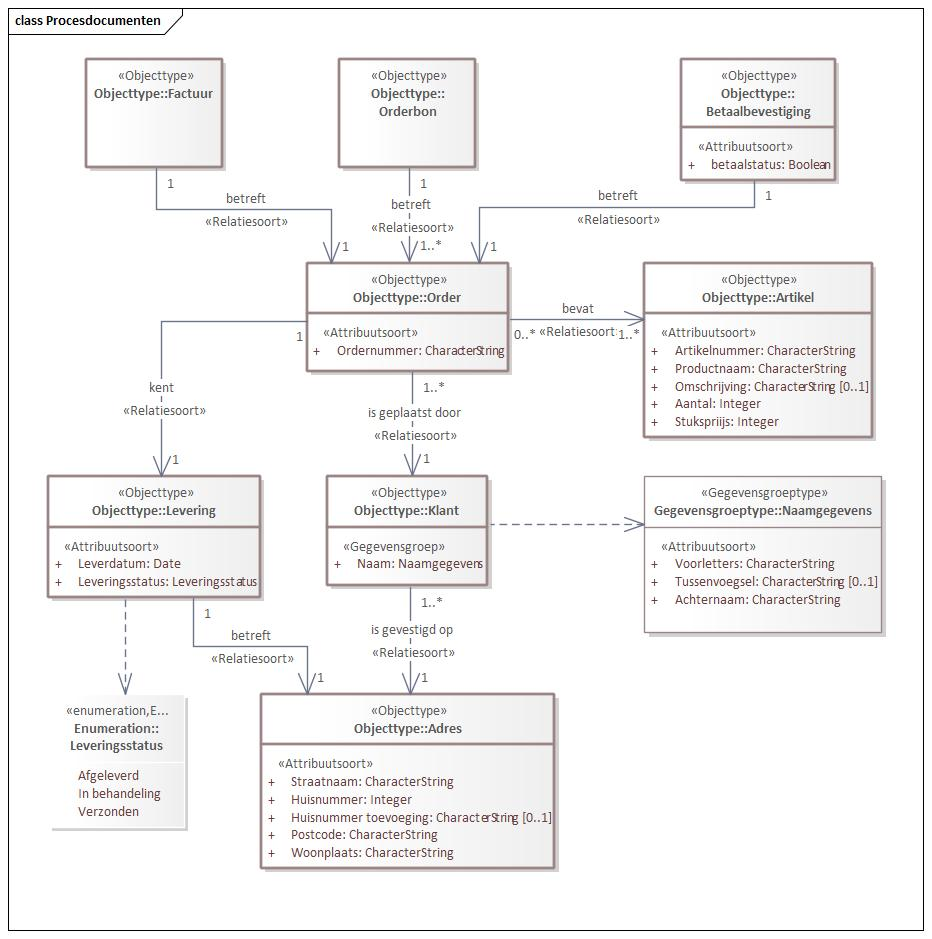
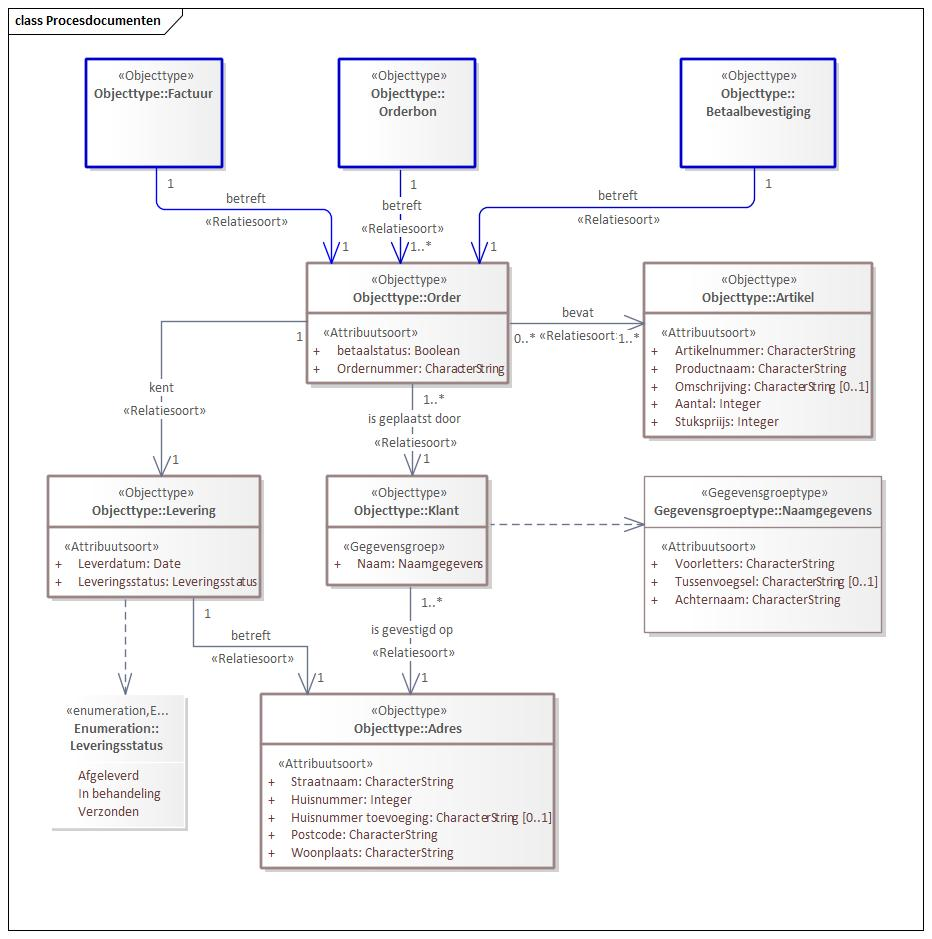
Aanpassingen t.b.v. oefening 5.3.3.

diff --git a/content/leerlijnen/05-xml-technologieen/oefening5-3-3.md b/content/leerlijnen/05-xml-technologieen/oefening5-3-3.md
@@ -10,19 +10,28 @@ oefendoel: "Oefen het beperken van het waardetype van een element."
 ## Oefening 5.3.3: Definiëren van complexere structuren
 
 In deze oefening gaan de elementen `<orderbon>`, `<factuur>` en `<betaalbevestiging>` flink op de schop. De elementen `<voorletters>`, `<postcode>` en `<ordernummer>` zullen onderdeel gaan uitmaken van de nieuwe structuur.
-Hieronder zie je het informatiemodel dat asl basis dient voor deze nieuwe structuur.
+Hieronder zie je het informatiemodel dat als basis dient voor deze nieuwe structuur.
 
 <img width="932" alt="IM Procesdocumenten" src="/Leerlijnen-KCA/bestanden/oefeningen-5-3/Procesdocumenten.jpg" />
 
+Je ziet dat in deze grafische weergave van het model de objecttypes 'Factuur', 'Orderbon' en 'Betaalbevestiging' anders zijn vormgegeven evenals de relaties die van daaruit naar 'Order' lopen.
+Dit komt omdat we al hebben onderkent dat deze objecttypes geen rol spelen in enige database of berichtuitwisseling. De structuur in de documenten zal zoals je zal zien ook niet helemaal overeenkomen met die in dit informatiemodel.
+
 
 **Opdracht**
-* Ga naar het XML-Schema 'procesdocument2.xsd' dat je in de voorgaande oefening hebt vervaardigd of open het opnieuw in 'Altova XMLSpy';
+* Ga naar het XML-Schema 'Procesdocumentatie3.xsd' dat je in de voorgaande oefening hebt vervaardigd of open het opnieuw in 'Altova XMLSpy';
 * Wijzig zo nodig de editing modus naar “Text”;
-* In de definitie van element `<voorletters>` moet een restriction op basis van `xs:string` worden gedefinieerd waarin de regular expression "([A-Z]{1}\.)+" wordt gebruikt.
-* Hetzelfde geldt voor de definitie van het element `<postcode>` alleen gebruiken we daar de regular expression "[0-9]{4}[A-Z]{2}".
-* Tenslotte moet ook in de definitie van element `<ordernummer>` een restriction worden gedefinieerd. Daarin beperken we echter de lengte tot 13.
-* Bewaar het bestand en bewaar het daarna ook meteen als “Procesdocumentatie3.xml”;
+* We starten met de orderbon. Verwijder het 'type' attribuut op dit element en creëer een structuur waarin je in een sequence de elementdefinities voor de elementen `<klantgegevens>`, `<ordergegevens>` en `<leveringsgegevens>` plaatst;
+* Binnen `<klantgegevens>` doe je hetzelfde t.b.v. de elementen `<naam>` en `<adres>`;
+* Binnen `<naam>` doe je wederom hetzelfde. Het element `<voorletters>` dat nu nog direct onder het element `<xs:schema>` staat moet je naar hier verplaatsen. Daarachter definieer je de elementdefinities voor de elementen `<tussenvoegsel>` en `<achternaam>`. De beide laatste elementen mag je als datatype 'xs:string' geven;
+* Binnen `<adres>` doe je hetzelfde. Daar doe je hetzelfde met `<postcode>` wat je in `<naam>` met `<voorletters>` hebt gedaan;
+* In `<ordergegevens>` plaats je in een sequence de al in het schema voorkomende elementdefinitie van elementen `<ordernummer>` en creëer je een elementdefinitie voor het element `<artikel>`. Deze krijgen allen het datatype 'xs:string' behalve de laatste, die krijgt het datatype 'xs:positiveInteger';
+
+
+* In artikel creëer je wederom in een sequence de elementdefinities voor `<artikelnummer>`, `<productnaam>`, `<omschrijving>` en `<aantal>`;
+
+* Bewaar het bestand en bewaar het daarna ook meteen als “Procesdocumentatie4.xsd”;
 * Ga naar “DTD/Schema - Generate Sample XML/JSON/YAML File...”;
-* Kies in het menu “Generate sample XML file” een van de drie zojuist aangepaste elementen en klik op “OK”. Check het resultaat en speel wat met de waardes;
-* Doe dit ook voor andere twee aangepaste elementen. De gegenereerde bestanden hoeven niet bewaard te worden.
+* Kies in het menu “Generate sample XML file” een van de drie zojuist aangepaste elementen en klik op “OK”. Check het resultaat en speel wat met de structuur en waardes;
+* Doe dit ook voor de andere twee root elementen. De gegenereerde bestanden hoeven niet bewaard te worden.
 

diff --git a/content/leerlijnen/05-xml-technologieen/oefening5-3-2.md b/content/leerlijnen/05-xml-technologieen/oefening5-3-2.md
@@ -17,7 +17,7 @@ In de voorgaande oefening hebben we de elementen `<voorletters>`, `<postcode>` e
 * In de definitie van element `<voorletters>` moet een restriction op basis van `xs:string` worden gedefinieerd waarin de regular expression "([A-Z]{1}\.)+" wordt gebruikt.
 * Hetzelfde geldt voor de definitie van het element `<postcode>` alleen gebruiken we daar de regular expression "[0-9]{4}[A-Z]{2}".
 * Tenslotte moet ook in de definitie van element `<ordernummer>` een restriction worden gedefinieerd. Daarin beperken we echter de lengte tot 13.
-* Bewaar het bestand en bewaar het daarna ook meteen als “Procesdocumentatie3.xml”;
+* Bewaar het bestand en bewaar het daarna ook meteen als “Procesdocumentatie3.xsd”;
 * Ga naar “DTD/Schema - Generate Sample XML/JSON/YAML File...”;
 * Kies in het menu “Generate sample XML file” een van de drie zojuist aangepaste elementen en klik op “OK”. Check het resultaat en speel wat met de waardes;
 * Doe dit ook voor andere twee aangepaste elementen. De gegenereerde bestanden hoeven niet bewaard te worden.
